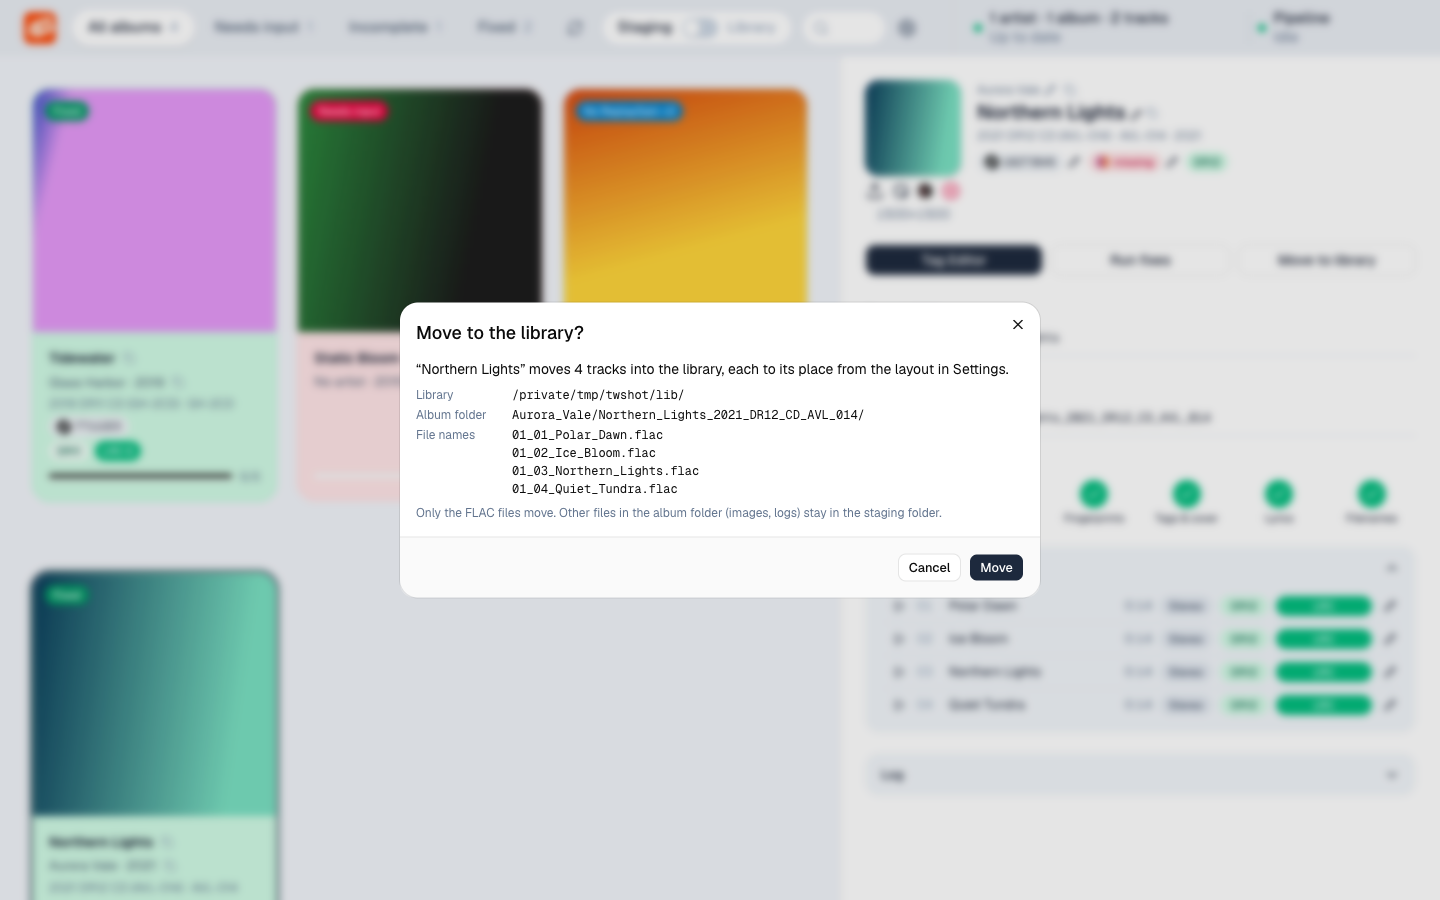
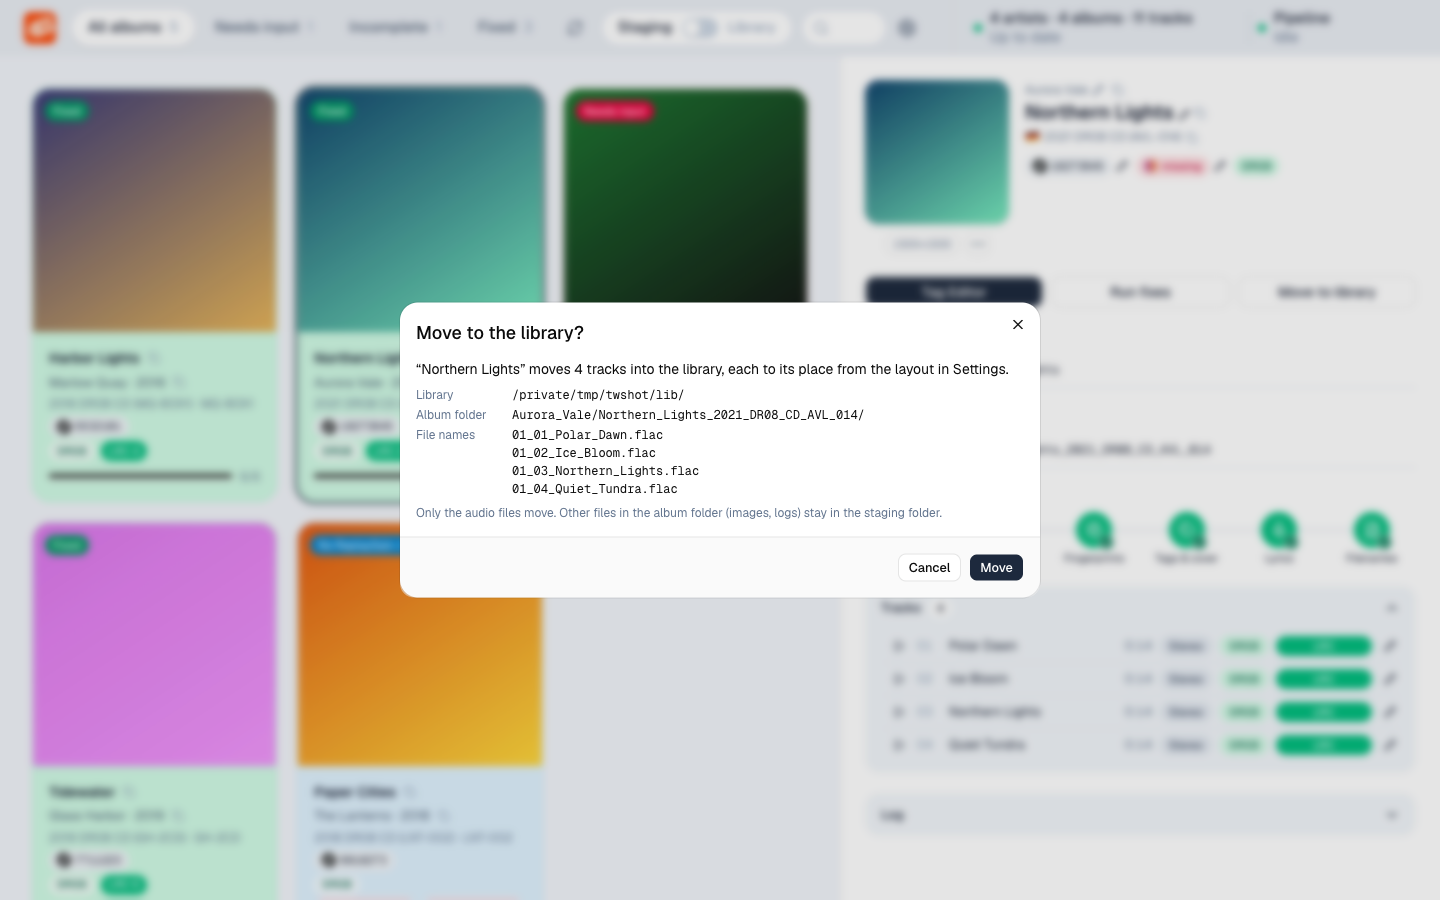
Release 0.3.0: changelog heading, README and screenshots
Why: the owner asked for a new release. ADR 0070 and 0071 require the README
and every screenshot to be brought up to date before the tag.

What: CHANGELOG `Unreleased` becomes `0.3.0 (2026-11-13)` with a new empty
Unreleased above it. README: staging albums are top-level folders (ADR 0076),
five tag editor tabs, maximum cover size, the delete-leftovers option and a
Settings section. All eight screenshots in docs/screenshots/ retaken, and
settings-general.png added.

How checked: screenshots taken with Chrome at 1440 x 900 from a scratch instance
(invented artists and albums, generated audio and covers, scratch folders under
/tmp, port 8792, no key set), console clean. Not verified: the published image
(built by the tag workflow after this commit).

ADRs: 0070, 0071, 0018, 0076.

diff --git a/README.md b/README.md
@@ -10,7 +10,7 @@ One user, one browser tab. FastAPI backend, Next.js frontend, no database server
 
 You point Tagwright at two folders: a **staging folder** (where downloads land) and a **library folder** (what your music server reads). It then helps you take an album from one to the other.
 
-1. **See what each album needs.** Every album in the staging folder is a card with cover, artist, album, year, Discogs ID, dynamic range, lyrics and a pipeline progress bar. The top bar filters: *Needs input*, *Incomplete*, *Fixed*.
+1. **See what each album needs.** Every folder directly in the staging folder is one album, with everything below it (a box set with `Disc 1 - ...` subfolders is one card, ADR 0076), shown as a card with cover, artist, album, year, Discogs ID, dynamic range, lyrics and a pipeline progress bar. The top bar filters: *Needs input*, *Incomplete*, *Fixed*.
 2. **Fix it.** *Run fixes* runs the pipeline on the album and streams a live log.
 3. **Correct what automation cannot.** Choose the Discogs and MusicBrainz release, edit tags, fix lyrics, replace the cover.
 4. **Move it to the library.** *Move to library* places the files in the library layout.
@@ -42,7 +42,7 @@ Tags Tagwright writes are never read back as input, tags owned by Discogs are re
 
 ## Editing
 
-**Tag editor** has four tabs: Album, Tracks, Discogs and MusicBrainz. Tracks lets you change disc, track number, title, artist and disc subtitle, reorder by drag and drop, and see whether a track is Stereo, Mono, 5.1 or 7.1.
+**Tag editor** has five tabs: Album, Tracks, Discogs, MusicBrainz and Other (every tag not shown elsewhere). Tracks lets you change disc, track number, title, artist and disc subtitle, reorder by drag and drop, and see whether a track is Stereo, Mono, 5.1 or 7.1.
 
 ![Tag editor, Tracks tab](docs/screenshots/tag-editor-tracks.png)
 
@@ -52,11 +52,11 @@ Tags Tagwright writes are never read back as input, tags owned by Discogs are re
 
 ![Lyrics editor](docs/screenshots/lyrics-editor.png)
 
-**Cover**: the pixel size is shown and a small cover is flagged. Drop an image on the cover or use the upload button; it is scaled to 1500 px and embedded. Links open cover searches on external sites.
+**Cover**: the pixel size is shown and a small cover is flagged. Drop an image on the cover or use the upload button; it is scaled down to the maximum cover size (Settings, 1500 px by default) and embedded; a cover below the minimum size (1400 px by default) keeps the album from moving. Links open cover searches on external sites.
 
 ## Moving to the library
 
-*Move to library* shows exactly what will happen first: the album folder and every file name, from your layout. Only `fixed` albums can move, nothing is overwritten and nothing is merged into an existing folder (ADR 0011).
+*Move to library* shows exactly what will happen first: the album folder and every file name, from your layout. Only `fixed` albums can move, nothing is overwritten and nothing is merged into an existing folder (ADR 0011). An optional setting offers to delete what is left of the album's staging folder afterwards, after listing it (ADR 0072).
 
 ![Move dialog with preview](docs/screenshots/move.png)
 
@@ -71,6 +71,12 @@ The top bar shows album artists, albums and tracks, and what the watcher is doin
 The **Staging | Library** switch in the top bar flips the board to the library, so you can fix details of albums that are already there.
 
 ![The board showing the library](docs/screenshots/library.png)
+
+### Settings
+
+Settings shows the two folders (read-only, from the environment), the minimum and maximum cover size, the option to delete the leftover staging folder after a move, and the Discogs API key. Tab *Library* holds the layout.
+
+![Settings, General tab](docs/screenshots/settings-general.png)
 
 ### The layout
 

diff --git a/CHANGELOG.md b/CHANGELOG.md
@@ -4,6 +4,8 @@ What changed for people who use Tagwright, newest first. Every functional change
 
 ## Unreleased
 
+## 0.3.0 (2026-11-13)
+
 Everything since 0.2 (8 to 13 November 2026).
 
 ### Added
